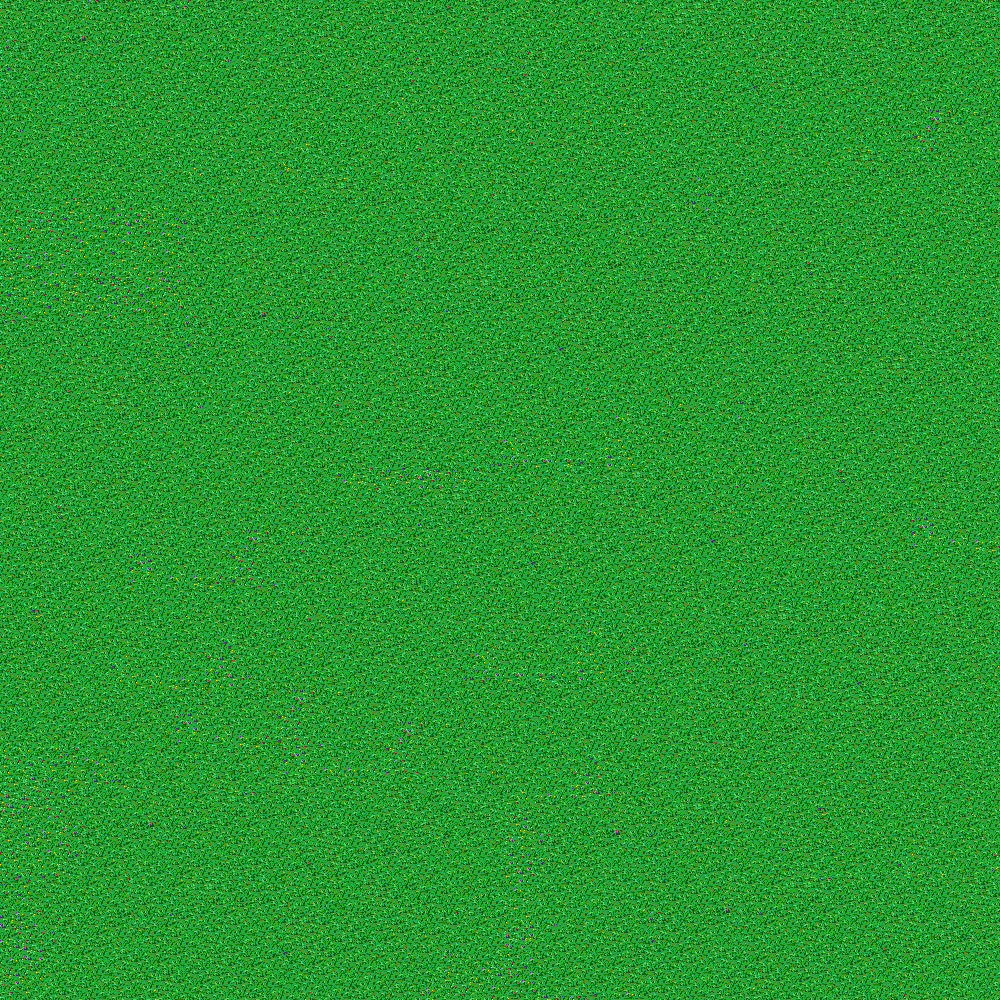
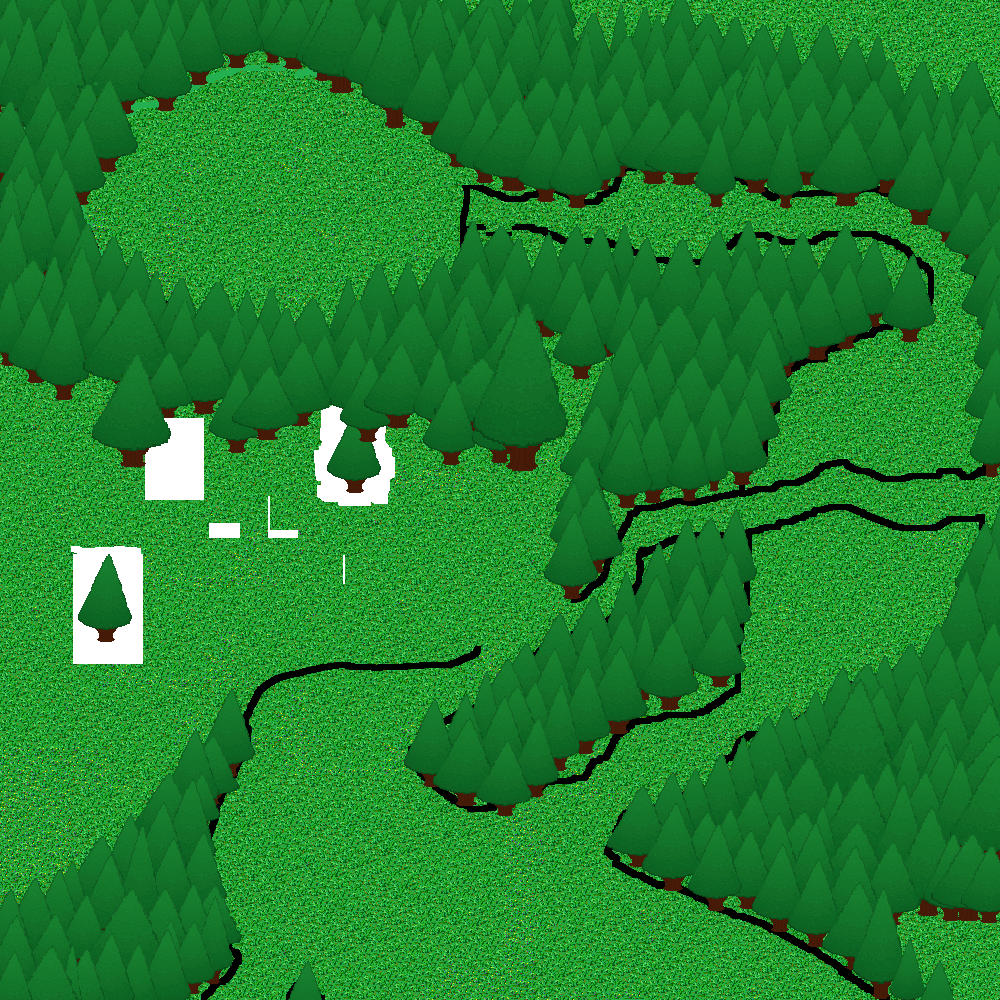
added area movement

diff --git a/src/PixelEngine/trigger.rs b/src/PixelEngine/trigger.rs
@@ -1,91 +1,68 @@
-use std::fs;
-use std::path::Path;
-use std::time::Instant;
 use sdl3::render::{FRect, Texture, WindowCanvas};
-use sdl3::surface::Surface;
-use serde_json::Value;
-use crate::PixelEngine::attack::attacks;
+use sdl3::video::Window;
+use crate::gameLoop;
 use crate::PixelEngine::basic::{enemy, mainCharacter, meshBox};
-use crate::PixelEngine::roam::roamPattern;
+use crate::PixelEngine::hitboxDetector;
 
 #[derive(Clone)]
 pub struct trigger {
     triggerType: String,
-    area: FRect,
-    timeSinceSpawn: Instant
+    area: FRect
 }
 
 impl trigger {
-    pub fn new(triggerType: String, mut area: FRect) -> trigger { trigger{triggerType, area, timeSinceSpawn: Instant::now()}}
-    pub fn trigger(&mut self, mainCharacter: &mut mainCharacter, mut enemies: &mut Vec<enemy>, textureVec: &mut Vec<Texture>, renderer: &WindowCanvas) {
-        let elapsed = self.timeSinceSpawn.elapsed();
-        println!("Elapsed: {:.2}s", elapsed.as_secs_f32());
+    pub fn new(triggerType: String, mut area: FRect) -> trigger { trigger{triggerType, area}}
+    pub fn trigger(&mut self, mainCharacter: &mut mainCharacter, mut enemies: &mut Vec<enemy>, textureVec: &mut Vec<Texture>, renderer: &mut WindowCanvas, window: &mut Window, meshBoxX: f32, meshBoxY: f32) {
+        let mut newArea = false;
+        let mut file = String::new();
+        let mut index = 0;
+        for letter in self.triggerType.chars() {
+            if !newArea {
+                match index {
+                    0 => if letter == 'n' { index += 1; continue },
+                    1 => if letter == 'e' { index += 1; continue },
+                    2 => if letter == 'w' { index += 1; continue },
+                    3 => if letter == 'A' { index += 1; continue },
+                    4 => if letter == 'r' { index += 1; continue },
+                    5 => if letter == 'e' { index += 1; continue },
+                    6 => if letter == 'a' {  },
+                    _ => {}
+                }
+            }
+            else {
+                file.push(letter);
+            }
+            if index == 6 {
+                newArea = true;
+            }
+            if !newArea {
+                break
+            }
+            index += 1;
+        }
+
+        let hitbox = FRect::new(
+            (self.area.x - meshBoxX) * 6.0,
+            (self.area.y - meshBoxY) * 6.0,
+            self.area.w *6.0,
+            self.area.h*6.0
+        );
+
+        if newArea {
+            loadNewArea(file, &hitbox, renderer, window, mainCharacter, textureVec);
+        }
+
         match self.triggerType.as_str() {
-            "spawnWolfAlways" => spawnWolfAlways(&mut enemies, &mut self.timeSinceSpawn, textureVec, renderer),
             _ => {}
         }
     }
 }
-fn spawnWolfAlways(enemies: &mut Vec<enemy>, timeSinceSpawn: &mut Instant, textureVec: &mut Vec<Texture>, renderer: &WindowCanvas) {
-    let content = fs::read_to_string(Path::new("src/Metadata/enemies.json")).unwrap();
-    let enemyData: Value = serde_json::from_str(&content).unwrap();
 
-    let mut up = Vec::new();
-    let mut down = Vec::new();
-    let mut left = Vec::new();
-    let mut right = Vec::new();
-    for enemyType in enemyData["wolf"].as_array().unwrap() {
-        for frect in enemyType["up"].as_array().unwrap() {
-            up.push(FRect::new(
-                frect["x"].as_f64().unwrap() as f32,
-                frect["y"].as_f64().unwrap() as f32,
-                frect["w"].as_f64().unwrap() as f32,
-                frect["h"].as_f64().unwrap() as f32,
-            ))
+fn loadNewArea (file: String, area: &FRect, renderer: &mut WindowCanvas, window: &mut Window, mainCharacter: &mainCharacter, textureVec: &mut Vec<Texture>) {
+    if hitboxDetector(mainCharacter.hitBox, *area) {
+        while textureVec.len() > 3 {
+            textureVec.pop().unwrap();
         }
-        for frect in enemyType["down"].as_array().unwrap() {
-            down.push(FRect::new(
-                frect["x"].as_f64().unwrap() as f32,
-                frect["y"].as_f64().unwrap() as f32,
-                frect["w"].as_f64().unwrap() as f32,
-                frect["h"].as_f64().unwrap() as f32,
-            ))
-        }
-        for frect in enemyType["left"].as_array().unwrap() {
-            left.push(FRect::new(
-                frect["x"].as_f64().unwrap() as f32,
-                frect["y"].as_f64().unwrap() as f32,
-                frect["w"].as_f64().unwrap() as f32,
-                frect["h"].as_f64().unwrap() as f32,
-            ))
-        }
-        for frect in enemyType["right"].as_array().unwrap() {
-            right.push(FRect::new(
-                frect["x"].as_f64().unwrap() as f32,
-                frect["y"].as_f64().unwrap() as f32,
-                frect["w"].as_f64().unwrap() as f32,
-                frect["h"].as_f64().unwrap() as f32,
-            ))
-        }
-        if timeSinceSpawn.elapsed().as_secs_f32() > 4.0 {
-            *timeSinceSpawn = Instant::now();
-            enemies.push(enemy::new(
-                rand::random_range(0.0 ..textureVec[3].width() as f32),
-                rand::random_range(0.0 .. textureVec[3].height() as f32),
-                up,
-                down,
-                left,
-                right,
-                attacks::new(enemyType["attackType"].as_str().unwrap().to_string()),
-                roamPattern::new(enemyType["roamType"].as_str().unwrap().to_string()),
-                textureVec.len()
-            ));
-            let surface = Surface::load_png("src/Assets/wolf.png").unwrap();
-            let mut texture = renderer.create_texture_from_surface(&surface).unwrap();
-            texture.set_scale_mode(sdl3::render::ScaleMode::Nearest);
-            textureVec.push(texture);
-        }
-        break
+        gameLoop(renderer, window, textureVec, mainCharacter.clone(), file, 0.0, 0.0);
     }
 }
-

diff --git a/src/main.rs b/src/main.rs
@@ -3,32 +3,26 @@
 
 mod PixelEngine;
 
-use std::fs::File;
-use std::io::{Read, Write};
 use std::path::{Path, PathBuf};
 use std::time::Instant;
 use sdl3::pixels::Color;
-use sdl3::render::{create_renderer, WindowCanvas, FRect};
+use sdl3::render::{create_renderer, WindowCanvas, FRect, Texture};
 use sdl3::surface::Surface;
 use sdl3::timer::delay;
 use sdl3::video::Window;
-
+use crate::PixelEngine::basic::mainCharacter;
 use crate::PixelEngine::pixelEngine;
 use crate::PixelEngine::parse::{createEnvironmentFromJson, loadSaveFromJson};
 
 fn main() {
     let videoSubsystem = sdl3::init().unwrap().video().unwrap();
-    let window = videoSubsystem.window("Game", 1920, 1080).position_centered().resizable().opengl().build().unwrap();
+    let mut window = videoSubsystem.window("Game", 1920, 1080).position_centered().resizable().opengl().build().unwrap();
     let mut renderer = create_renderer(window.clone(), None).unwrap();
 
     renderer.set_draw_color(Color::RGB(255, 255, 255));
     renderer.clear();
     renderer.present();
 
-    gameLoop(&mut renderer, window);
-}
-
-fn gameLoop(renderer: &mut WindowCanvas, window: Window) {
     let mut textureVec = Vec::new();
 
     let surfaceMain = Surface::load_png("src/Assets/gameCharacter.png").unwrap();
@@ -46,9 +40,12 @@ fn gameLoop(renderer: &mut WindowCanvas, window: Window) {
     textureSword.set_scale_mode(sdl3::render::ScaleMode::Nearest);
     textureVec.push(textureSword);
 
-    let mut score = 0;
     let save = loadSaveFromJson(&window);
-    let environment = createEnvironmentFromJson(PathBuf::from(Path::new(&("src/Metadata/".to_string() + &*save.1 + ".json"))));
+    gameLoop(&mut renderer, &mut window, &mut textureVec, save.0, save.1, save.2, save.3);
+}
+
+fn gameLoop(renderer: &mut WindowCanvas, window: &mut Window, mut textureVec: &mut Vec<Texture>, mainCharacter: mainCharacter, environmentFile: String, startX: f32, startY: f32) {
+    let environment = createEnvironmentFromJson(PathBuf::from(Path::new(&("src/Metadata/".to_string() + &*environmentFile+ ".json"))));
 
     for location in environment.0 {
         let surface = Surface::load_png(location).unwrap();
@@ -58,18 +55,18 @@ fn gameLoop(renderer: &mut WindowCanvas, window: Window) {
     }
 
     let mut meshBox = environment.1;
-    meshBox.x = save.2;
-    meshBox.y = save.3;
+    meshBox.x = startX;
+    meshBox.y = startY;
 
-    let mut pixelEngine = pixelEngine::new(meshBox, save.0, environment.2);
+    let mut pixelEngine = pixelEngine::new(meshBox, mainCharacter, environment.2);
 
     let mut running = true;
 
     while running && pixelEngine.alive {
         let now = Instant::now();
 
-        pixelEngine.input(&window, &textureVec, &mut running);
-        pixelEngine.update(&mut textureVec, renderer, &mut score);
+        pixelEngine.input(window, &textureVec, &mut running);
+        pixelEngine.update(&mut textureVec, renderer, window);
         pixelEngine.render(&textureVec, renderer, &window);
 
         let mut elapsed = now.elapsed().as_millis();
@@ -88,17 +85,6 @@ fn gameLoop(renderer: &mut WindowCanvas, window: Window) {
     let gameOverSurface = font.render("You Died").blended(Color::RGB(150, 50, 50)).unwrap();
     let gameOverTexture = renderer.create_texture_from_surface(&gameOverSurface).unwrap();
 
-    let scoreSurface = font.render(&*("Score: ".to_string() + &*score.to_string())).blended(Color::RGB(200, 200, 200)).unwrap();
-    let scoreTexture = renderer.create_texture_from_surface(&scoreSurface).unwrap();
-
-    let mut file = File::open("src/Assets/highscore.txt").unwrap(); //here
-    let mut buffer = String::new();
-    file.read_to_string(&mut buffer).unwrap();
-
-    let highScoreSurface = font.render(&*("High Score: ".to_string() + &buffer)).blended(Color::RGB(200, 200, 200)).unwrap();
-    let highScoreTexture = renderer.create_texture_from_surface(&highScoreSurface).unwrap();
-
-
     while running {
         renderer.set_draw_color(Color::RGB(0, 0, 0));
         renderer.clear();
@@ -110,29 +96,15 @@ fn gameLoop(renderer: &mut WindowCanvas, window: Window) {
             window.size_in_pixels().0 as f32 / 2.0,
             window.size_in_pixels().1 as f32 / 3.0,
         );
-        let mut highScoreMsgRect = FRect::new(
-            deathMsgRect.x + deathMsgRect.w / 3.0,
-            deathMsgRect.y + deathMsgRect.h + 50.0,
-            deathMsgRect.w / 3.0,
-            deathMsgRect.h / 3.0,
-        );
 
         renderer.copy(&gameOverTexture, None, deathMsgRect).unwrap();
-        renderer.copy(&scoreTexture, None, highScoreMsgRect).unwrap();
-        highScoreMsgRect.y += highScoreMsgRect.h + 50.0;
-        highScoreMsgRect.h /= 1.5;
-        renderer.copy(&highScoreTexture, None, highScoreMsgRect).unwrap();
 
         renderer.present();
-        gameoverInput(&mut running);
-    }
-    if score > buffer.parse::<i32>().unwrap() {
-        let mut newFile = File::create("src/Assets/highscore.txt").unwrap(); //here
-        newFile.write_all(&score.to_string().as_bytes()).unwrap();
+        gameOverInput(&mut running);
     }
 }
 
-fn gameoverInput (running: &mut bool) {
+fn gameOverInput (running: &mut bool) {
     let mut eventPump = sdl3::init().unwrap().event_pump().unwrap();
 
     for event in eventPump.poll_iter() {

diff --git a/src/PixelEngine/mod.rs b/src/PixelEngine/mod.rs
@@ -42,7 +42,6 @@ impl pixelEngine {
         }
         if self.mainCharacter.jumping {
             usedStamina = true;
-            speed *= 1.2;
         }
 
         if !keyboardState.is_scancode_pressed(Scancode::Space) && self.mainCharacter.jumping && self.mainCharacter.velocity > 0.1 {
@@ -122,8 +121,14 @@ impl pixelEngine {
         if (keyboardState.is_scancode_pressed(Scancode::LShift) || keyboardState.is_scancode_pressed(Scancode::RShift)) && walking == true {
             usedStamina = true;
             if self.mainCharacter.stats.stamina > 0.0 {
-                speed *= 1.5;
-                self.mainCharacter.stats.stamina -= 0.05;
+                if self.mainCharacter.jumping {
+                    speed *= 1.3;
+                    self.mainCharacter.stats.stamina -= 0.035;
+                }
+                else{
+                    speed *= 1.25;
+                    self.mainCharacter.stats.stamina -= 0.05;
+                }
             }
         }
 
@@ -197,7 +202,7 @@ impl pixelEngine {
             }
         }
     }
-    pub fn update(&mut self, mut textureVec: &mut Vec<Texture>, renderer: &WindowCanvas, score: &mut i32) {
+    pub fn update(&mut self, mut textureVec: &mut Vec<Texture>, renderer: &mut WindowCanvas, window: &mut Window) {
         self.mainCharacter.update();
         for mut enemy in self.enemies.iter_mut() {
             let enemyUsedHitbox = FRect::new(
@@ -259,7 +264,7 @@ impl pixelEngine {
             }
         }
         for mut trigger in self.meshBox.triggers.iter_mut() {
-            trigger.trigger(&mut self.mainCharacter, &mut self.enemies, &mut textureVec, renderer);
+            trigger.trigger(&mut self.mainCharacter, &mut self.enemies, &mut textureVec, renderer, window, self.meshBox.x, self.meshBox.y);
         }
         let mut removeEnemy = Vec::new();
         for enemy in 0..self.enemies.len() {
@@ -269,7 +274,6 @@ impl pixelEngine {
         }
         removeEnemy.sort_by(|a, b| b.cmp(a));
         for enemy in removeEnemy {
-            *score +=1;
             self.enemies.remove(enemy);
         }
     }

diff --git a/src/PixelEngine/parse.rs b/src/PixelEngine/parse.rs
@@ -84,6 +84,12 @@ pub fn createEnvironmentFromJson (file: PathBuf) -> (Vec<String>, meshBox, Vec<e
                     frect["h"].as_f64().unwrap() as f32,
                 ))
             }
+            let roamArea = FRect::new(
+                enemy["roamX"].as_f64().unwrap() as f32,
+                enemy["roamY"].as_f64().unwrap() as f32,
+                enemy["roamW"].as_f64().unwrap() as f32,
+                enemy["roamH"].as_f64().unwrap() as f32,
+            );
             enemies.push(enemy::new(
                 enemy["x"].as_f64().unwrap() as f32,
                 enemy["y"].as_f64().unwrap() as f32,
@@ -92,7 +98,7 @@ pub fn createEnvironmentFromJson (file: PathBuf) -> (Vec<String>, meshBox, Vec<e
                 left,
                 right,
                 attacks::new(enemyType["attackType"].as_str().unwrap().to_string()),
-                roamPattern::new(enemyType["roamType"].as_str().unwrap().to_string()),
+                roamPattern::new(enemyType["roamType"].as_str().unwrap().to_string(), roamArea),
                 texturePos.clone()
             ));
             textureVec.push("src/Assets/".to_string() + enemyType["textureFile"].as_str().unwrap());

diff --git a/src/PixelEngine/roam.rs b/src/PixelEngine/roam.rs
@@ -1,19 +1,27 @@
-use sdl3::render::Texture;
+use sdl3::render::{FRect, Texture};
 use crate::PixelEngine::basic::{enemy, mainCharacter, meshBox};
 
 #[derive(Clone)]
 pub struct roamPattern {
     roamType: String,
+    roamArea: FRect,
+    movePoint: i32
 }
+
 impl roamPattern {
-    pub fn new(roamType: String) -> roamPattern {roamPattern{roamType}}
+    pub fn new(roamType: String, roamArea: FRect) -> roamPattern {roamPattern{roamType, roamArea, movePoint: 1}}
     pub fn roam<'a>(&mut self, mainCharacter: &mut mainCharacter, meshBox: &mut meshBox, mut enemy: &mut enemy, backgroundTexture: &Texture) {
         match self.roamType.as_str() {
-            "instantAttack" =>  instantAttack(&mut enemy),
+            "squareRoam" =>  squareRoam(&mut enemy, &self.roamArea),
             _ => {}
         }
     }
 }
-fn instantAttack (enemy: &mut enemy) {
-    enemy.roam = false;
+fn squareRoam (enemy: &mut enemy, roamArea: &FRect, movePoint: &i32) {
+    let coordinates = match movePoint {
+        1 => (roamArea.x, roamArea.y),
+        2 => (roamArea.x, roamArea.y + roamArea.h),
+        
+        _ => (0.0, 0.0)
+    };
 }

diff --git a/src/PixelEngine/basic.rs b/src/PixelEngine/basic.rs
@@ -59,6 +59,7 @@ impl meshBox {
     }
 }
 
+#[derive(Clone)]
 pub struct mainCharacter{
     pub x: f32,
     pub y: f32,
@@ -211,6 +212,8 @@ impl mainCharacter {
         }
     }
 }
+
+#[derive(Clone)]
 pub struct stats {
     pub health: f32,
     pub(crate) maxHealth: f32,
@@ -282,6 +285,7 @@ impl stats {
     }
 }
 
+#[derive(Clone)]
 pub struct swordAttack {
     swingUp: [FRect; 6],
     swingDown: [FRect; 6],
